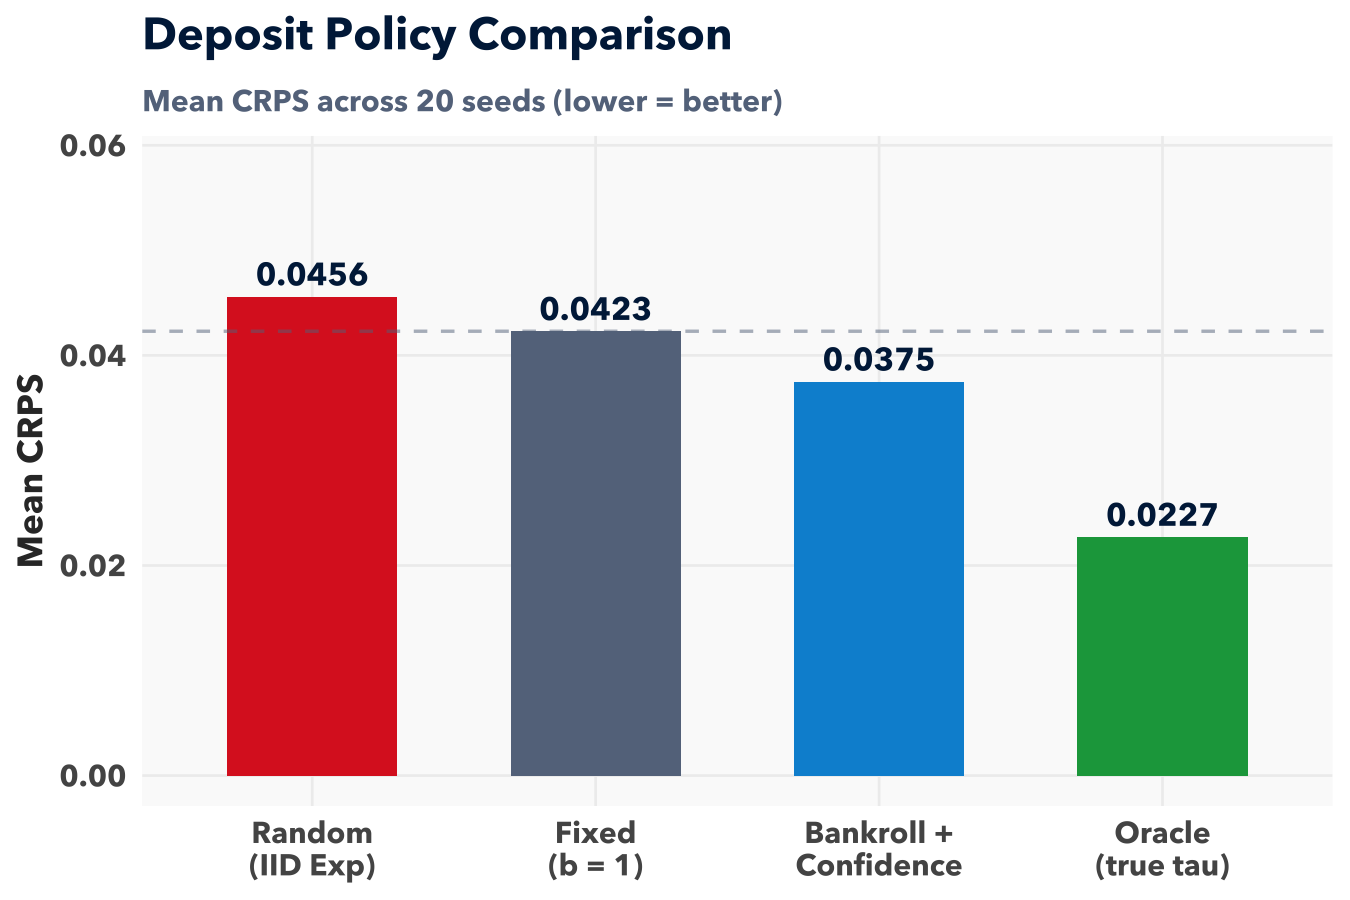
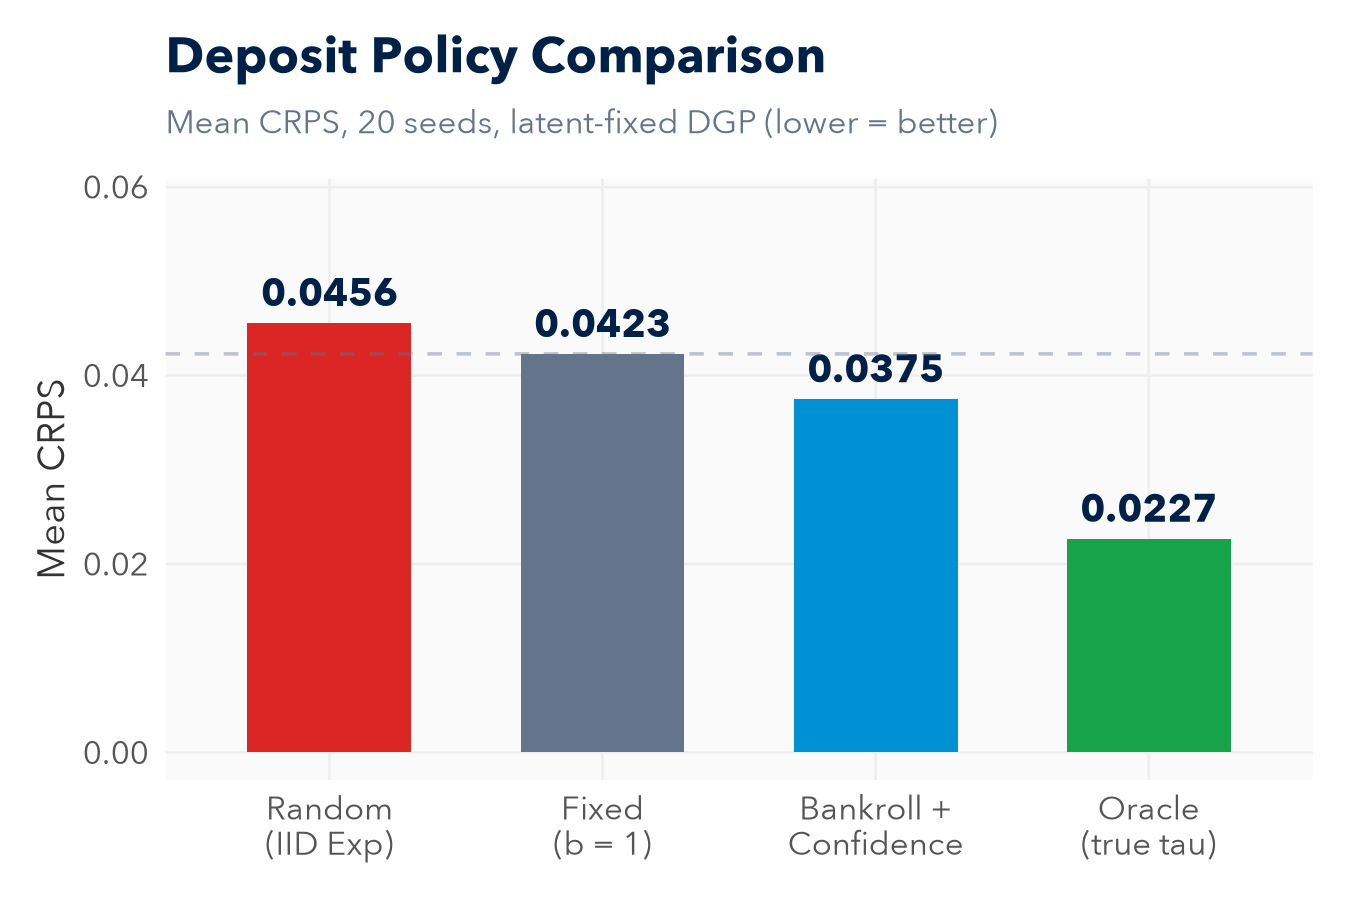
fix: R plots working (cairo, no showtext) + visual fixes
- R fixed: removed showtext (was hanging), using type='cairo' for Avenir
- All 7 key plots regenerated with R/ggplot2 + Avenir Next font
- 'Where This Work Fits' now shows comparison matrix (checkmarks)
- Strategic Robustness: removed sybil graph (not useful), text-only
- Architecture: uses fixed_deposit plot (clearer than parameter sweep)
- Contributions: structured with headers + numbered items + warnings
- Year fixed to 2026
- bulletStyle handles matrix lines, section headers, sub-headers

diff --git a/dashboard/src/pages/PresentationPage.tsx b/dashboard/src/pages/PresentationPage.tsx
@@ -86,42 +86,22 @@ const SLIDES: SlideData[] = [
     ref: '[1] Sirolly et al., Network-Based Detection of Wash Trading, 2025  [2] Wu, Prediction Markets as Sociotechnical Assemblages, U. Chicago, 2025',
   },
 
-  /* ── 4  EXISTING WORK ── */
+  /* ── 4  WHERE THIS WORK FITS ── */
   {
     id: 'existing-work',
-    type: 'columns',
+    type: 'content',
     title: 'Where This Work Fits',
-    ref: '[3] Lambert et al., EC 2008  [4] Raja et al., IJF 2024  [5] Vitali & Pinson, PSCC 2026',
-    columns: [
-      {
-        heading: 'Self-Financed Wagering',
-        items: [
-          '• Lambert et al. (2008) [3]',
-          '• Budget balance, truthfulness',
-          '• Raja et al. (2024) [4]',
-          '• + client utility component',
-          '• This work extends this line',
-        ],
-      },
-      {
-        heading: 'Online Aggregation',
-        items: [
-          '• OGD / Hedge algorithms',
-          '• Learns time-varying weights',
-          '• This work borrows EWMA',
-          '• Adds incentive constraints',
-        ],
-      },
-      {
-        heading: 'Intermittent Markets',
-        items: [
-          '• Vitali & Pinson (2025) [5]',
-          '• Handles missing forecasters',
-          '• This work: absolute skill',
-          '• + self-financed settlement',
-        ],
-      },
+    bullets: [
+      '                          Budget bal.  Truthful  Skill-adaptive  Intermittent',
+      '',
+      '• Lambert (2008) [3]         ✓           ✓           ✗              ✗',
+      '• Raja (2024) [4]            ✓           ✓           ✗              ✗',
+      '• Online aggregation         ✗           ✗           ✓              ✗',
+      '• Vitali-Pinson (2025) [5]   ✓           ✓           ✓ (relative)   ✓',
+      '',
+      '→ This thesis                ✓           ✓           ✓ (absolute)   ✓',
     ],
+    ref: '[3] Lambert et al., EC 2008  [4] Raja et al., IJF 2024  [5] Vitali & Pinson, PSCC 2026',
   },
 
   /* ── 5  GAP ── */
@@ -179,7 +159,7 @@ const SLIDES: SlideData[] = [
       '• Core consumes without knowing motives',
       '• 20+ invariant tests',
     ],
-    image: 'presentation-plots/parameter_sweep.png',
+    image: 'presentation-plots/fixed_deposit.png',
   },
 
   /* ── 9  CORRECTNESS ── */
@@ -247,16 +227,18 @@ const SLIDES: SlideData[] = [
   /* ── 13  STRATEGIC ROBUSTNESS ── */
   {
     id: 'strategic',
-    type: 'split',
+    type: 'content',
     title: 'Strategic Robustness',
-    leftBullets: [
-      '• Sybil (identical): ratio = 1.000000',
-      '• Sybil (diversified): ratio = 1.065',
-      '• Arbitrage: zero profit (all λ)',
-      '→ Resists standard attacks',
-      '⚠ Adaptive adversaries remain open',
+    bullets: [
+      '• Sybil (identical reports): profit ratio = 1.000000',
+      '• Sybil (diversified reports): ratio = 1.065',
+      '• Strategic deposit manipulation: ratio = 1.000000',
+      '',
+      '• Arbitrage [6]: zero profit extracted across all parameter values',
+      '',
+      '→ Mechanism resists standard attacks',
+      '⚠ Adaptive adversaries remain an open challenge',
     ],
-    image: 'presentation-plots/sybil.png',
     ref: '[6] Chen et al., Removing Arbitrage from Wagering Mechanisms, EC 2014',
   },
 
@@ -266,18 +248,19 @@ const SLIDES: SlideData[] = [
     type: 'content',
     title: 'Contributions & Limitations',
     bullets: [
-      '1. Mechanism coupling wagering + online skill learning',
-      '2. Budget balance < 10⁻¹⁴; sybilproof (identical reports)',
-      '3. Deposit design: strongest lever (−11% CRPS)',
-      '4. Skill recovery: Spearman = 1.0000',
+      'Contributions:',
+      '1. Mechanism coupling self-financed wagering + online skill learning',
+      '2. Verified: budget balance < 10e-14, sybilproof, bounded loss',
+      '3. Deposit design is the strongest lever (-11% CRPS vs fixed)',
+      '4. Skill recovery: Spearman = 1.0000 (perfect rank ordering)',
       '5. Sybil-resistant; no arbitrage profit in practice',
-      '6. Modular platform (onlinev2) + test suite + dashboard',
+      '6. Modular platform (onlinev2) + test suite + interactive dashboard',
       '',
       'Limitations:',
-      '• Tail calibration ~5pp (quantile averaging)',
-      '• Equal weights competitive in some settings',
-      '• Truthfulness under risk neutrality only',
-      '• All synthetic data',
+      '⚠ Tail calibration: ~5pp under-dispersion (inherent to quantile averaging)',
+      '⚠ Equal weights competitive in some configurations',
+      '⚠ Truthfulness holds under risk neutrality only',
+      '⚠ All experiments on synthetic data',
     ],
   },
 
@@ -286,7 +269,7 @@ const SLIDES: SlideData[] = [
     id: 'closing',
     type: 'closing',
     title: 'Thank you',
-    subtitle: 'Anastasia Cattaneo\nImperial College London\n2025',
+    subtitle: 'Anastasia Cattaneo\nImperial College London\n2026',
     dark: true,
   },
 ];
@@ -362,6 +345,12 @@ function bulletStyle(item: string): React.CSSProperties {
   if (item.startsWith('✓')) return { color: '#16a34a', fontWeight: 700 };
   if (item.startsWith('•')) return { paddingLeft: '0.5rem' };
   if (/^\d\./.test(item)) return { fontWeight: 600 };
+  if (item.trim().startsWith('Budget') || item.trim().startsWith('Truthful') || item.trim().startsWith('Skill'))
+    return { fontFamily: 'monospace', fontSize: '1.2rem', letterSpacing: '-0.02em' };
+  if (item.startsWith('Contributions:') || item.startsWith('Limitations:'))
+    return { fontWeight: 700, fontSize: '1.4rem', color: '#002147', marginTop: '0.3rem' };
+  if (item.startsWith('Fixed deposits:') || item.startsWith('Bankroll deposits:'))
+    return { fontWeight: 700, color: '#334155' };
   return {};
 }
 
@@ -418,7 +407,7 @@ function TitleSlideView({ slide }: { slide: SlideData }) {
           color: 'rgba(255,255,255,0.5)',
         }}
       >
-        Anastasia Cattaneo · Imperial College London · 2025
+        Anastasia Cattaneo · Imperial College London · 2026
       </div>
     </div>
   );
